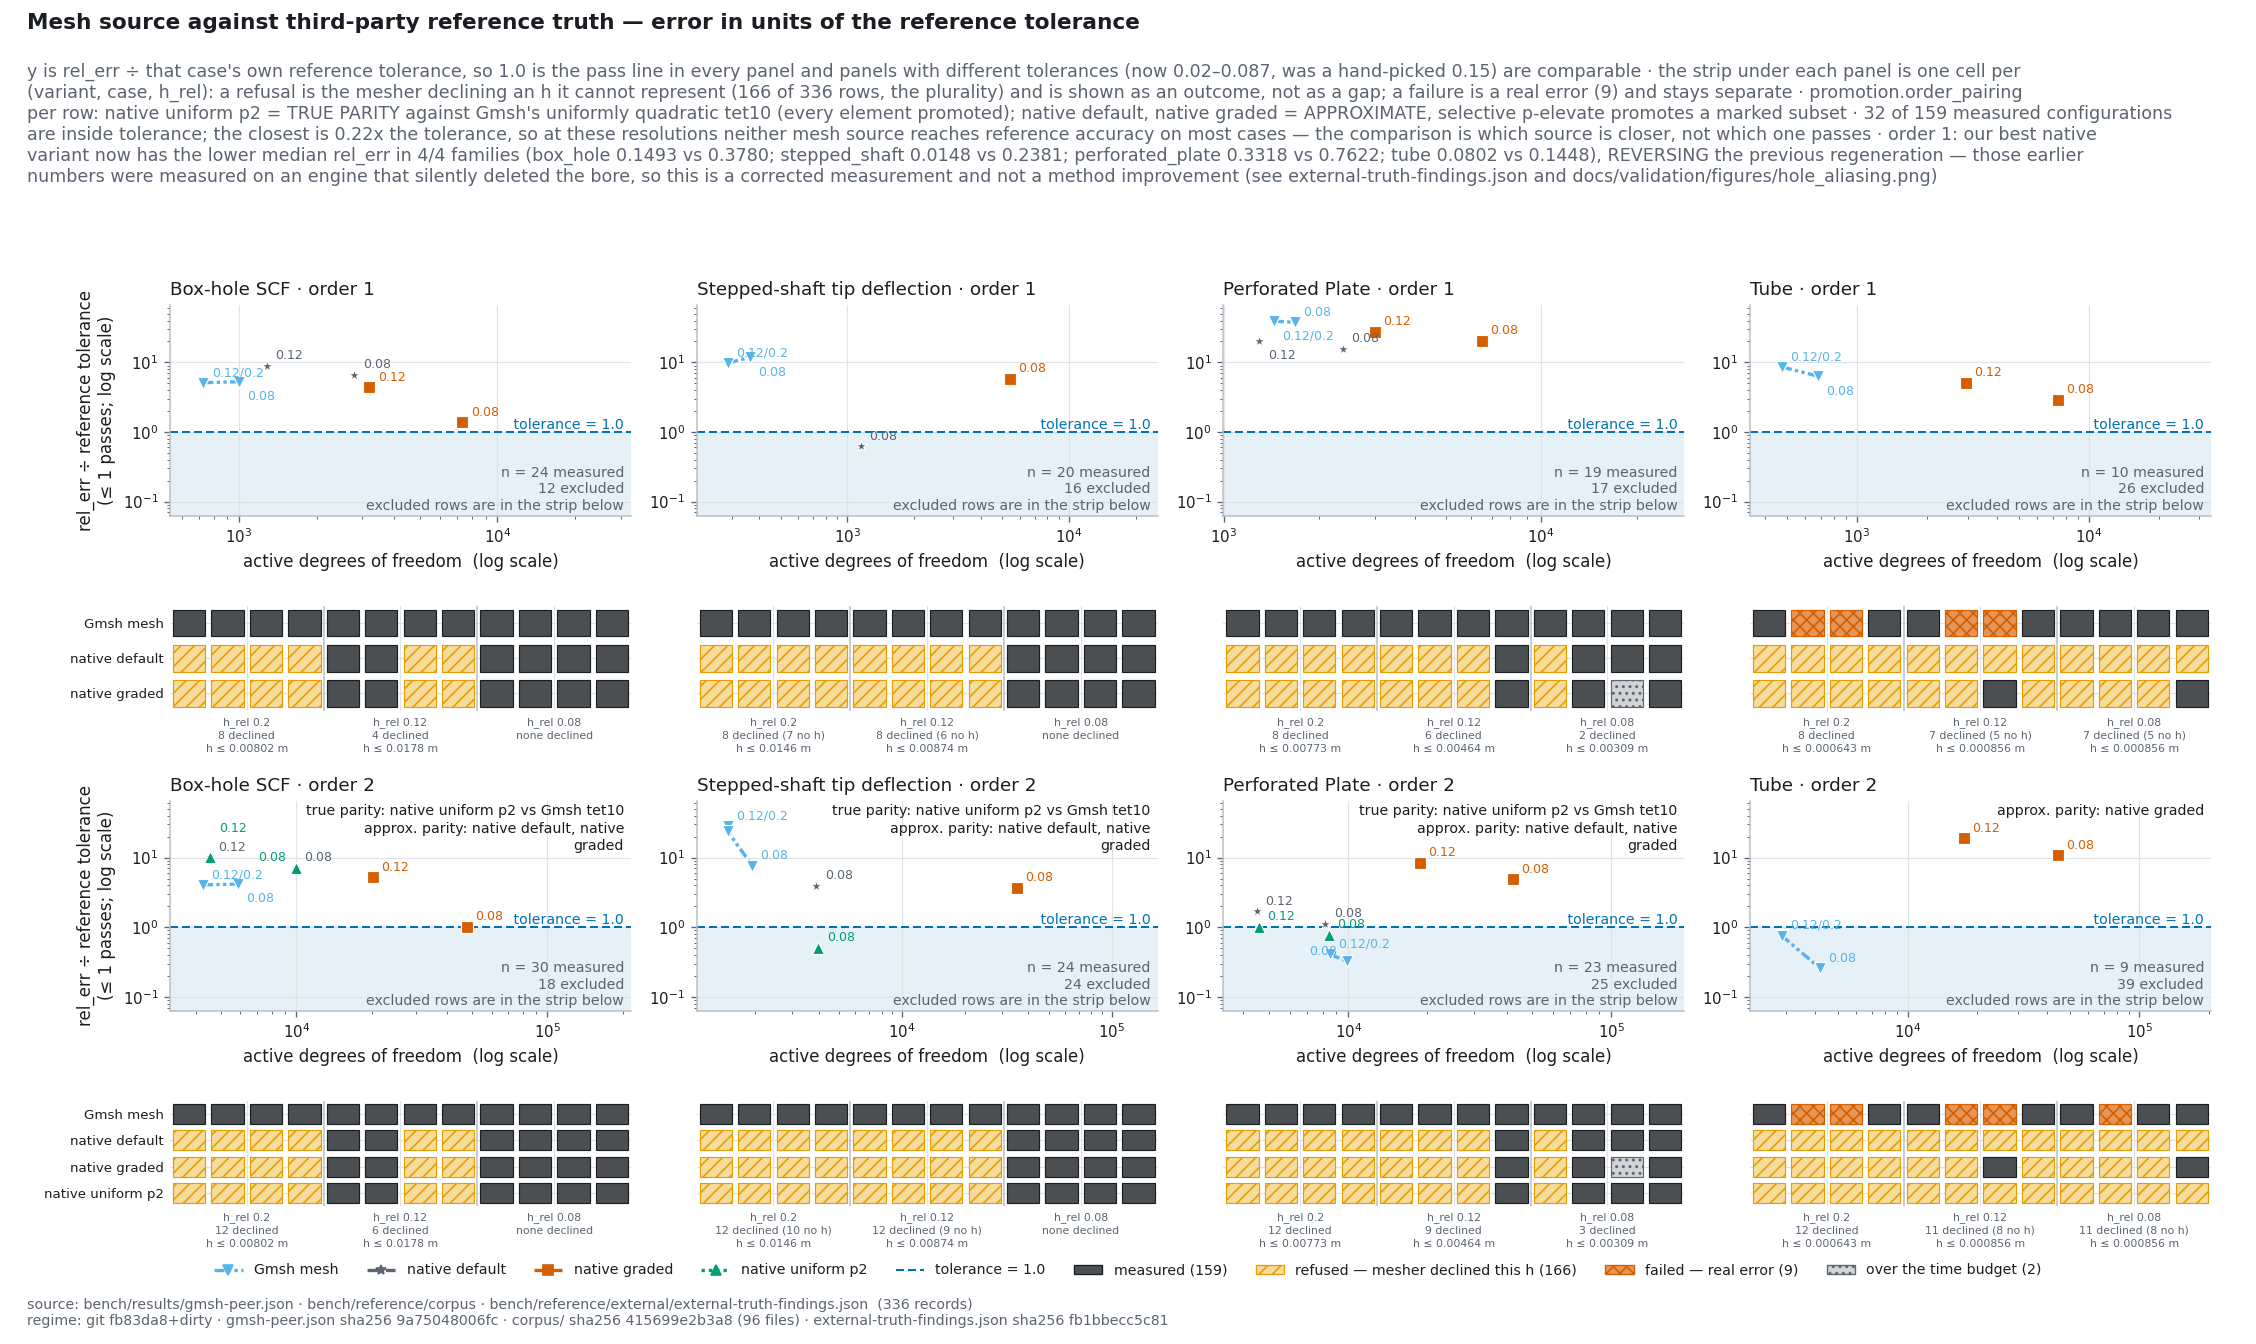
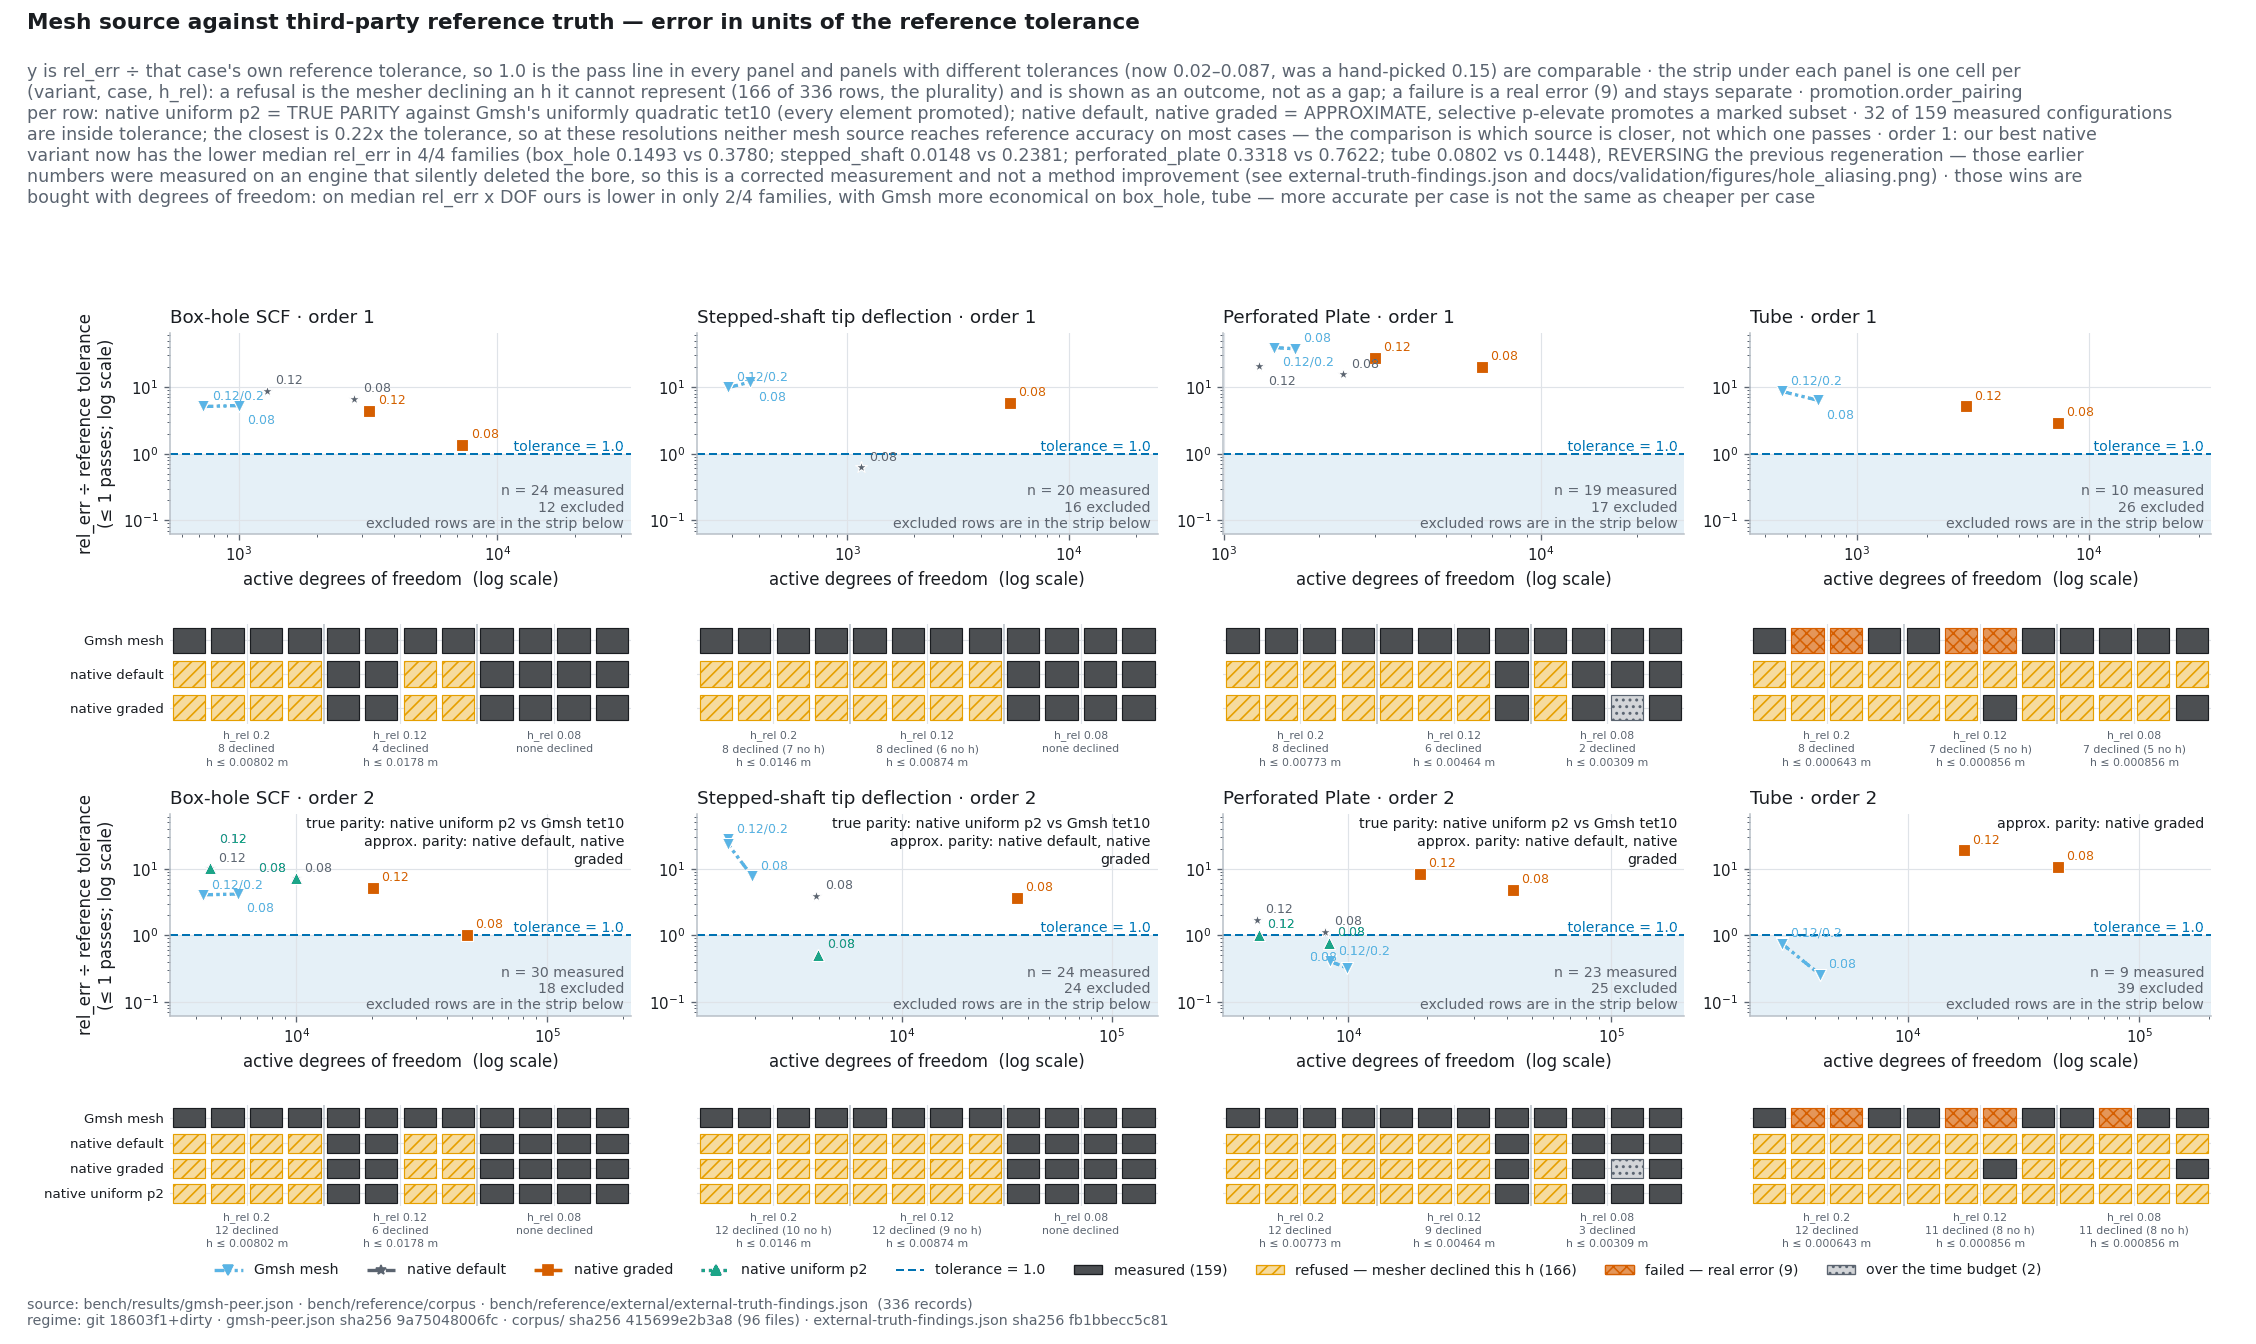
docs: charge the peer comparison for degrees of freedom, on the figure
external_comparison.png stated the order-1 accuracy result -- our best native
variant has the lower median rel_err in 4/4 families -- with its cause, but not
with its cost. The README peer section, corrected in 18603f1, does state the
cost: those wins are bought with 4-10x the degrees of freedom, and on median
rel_err x DOF the ranking splits 2-2.

A figure that is less honest than the prose beside it is the defect this sweep
existed to remove, so the figure now carries both bases, computed from the same
rows it plots and never typed in:

  box_hole          ours 849 vs Gmsh  278  -- Gmsh lower
  stepped_shaft     ours  17 vs Gmsh   69  -- ours lower
  perforated_plate  ours 678 vs Gmsh 1171  -- ours lower
  tube              ours 363 vs Gmsh   84  -- Gmsh lower

The subtitle ends "more accurate per case is not the same as cheaper per case".
Every number reproduces the README's independently: median DOF box-hole 738 vs
6,242, tube 540 vs 5,142.

diff --git a/scripts/advisor/report.py b/scripts/advisor/report.py
@@ -1392,6 +1392,42 @@ def _order_tally(measured: list[dict[str, Any]], families: list[str],
     return out
 
 
+def _cost_tally(measured: list[dict[str, Any]], families: list[str],
+                order: int) -> list[tuple[str, float, float]]:
+    """(family, best native median rel_err x DOF, Gmsh median) per family.
+
+    The accuracy tally answers "whose mesh is more accurate". It does not
+    answer "at what cost", and on this matrix the two answers differ: the
+    native wins are bought with 4-10x the degrees of freedom. Charging for
+    them is one multiplication, so there is no excuse for showing only the
+    flattering basis.
+    """
+    out = []
+    for family in families:
+        panel = [row for row in measured
+                 if row["family"] == family and row["order"] == order
+                 and row.get("dofs")]
+        peer = [row["error"] * row["dofs"] for row in panel
+                if row["solver"] == "gmsh-mesh+polymesh-solver"]
+        native = [row["error"] * row["dofs"] for row in panel
+                  if row["solver"] != "gmsh-mesh+polymesh-solver"]
+        best: float | None = None
+        for solver in EXTERNAL_SOURCES:
+            if solver == "gmsh-mesh+polymesh-solver":
+                continue
+            costs = [row["error"] * row["dofs"] for row in panel
+                     if row["solver"] == solver]
+            if not costs:
+                continue
+            median = float(np.median(costs))
+            if best is None or median < best:
+                best = median
+        if not peer or best is None or not native:
+            continue
+        out.append((family, best, float(np.median(peer))))
+    return out
+
+
 def external_comparison(result_path: Path, out_dir: Path) -> bool:
     payload = load_json(result_path)
     if not isinstance(payload, list):
@@ -1442,6 +1478,25 @@ def external_comparison(result_path: Path, out_dir: Path) -> bool:
     order1 = orders[0]
     reversal = ("; ".join(f"{family} {native:.4f} vs {peer:.4f}"
                           for family, _, native, peer in tallies[order1]))
+
+    cost = _cost_tally(measured, families, order1)
+    cost_wins = sum(1 for _, native, peer in cost if native < peer)
+    for family, native, peer in cost:
+        print(f"  order {order1} {family} rel_err x DOF: ours "
+              f"{native:.0f} vs Gmsh {peer:.0f} — "
+              + ("ours lower" if native < peer else "Gmsh lower"))
+    print(f"  order {order1} cost tally: ours lower in {cost_wins}/"
+          f"{len(cost)} families on rel_err x DOF")
+    cost_sentence = ""
+    if cost:
+        losers = ", ".join(family for family, native, peer in cost
+                           if native >= peer)
+        cost_sentence = (
+            " \u00b7 those wins are bought with degrees of freedom: on median "
+            f"rel_err x DOF ours is lower in only {cost_wins}/{len(cost)} "
+            "families"
+            + (f", with Gmsh more economical on {losers}" if losers else "")
+            + " \u2014 more accurate per case is not the same as cheaper per case")
     findings = ROOT / "bench" / "reference" / "external" / \
         "external-truth-findings.json"
     # the parity vocabulary is read off promotion.order_pairing, so no caveat
@@ -1497,7 +1552,8 @@ def external_comparison(result_path: Path, out_dir: Path) -> bool:
         "measured on an engine that silently deleted the bore, so this is a "
         "corrected measurement and not a method improvement (see "
         "external-truth-findings.json and "
-        "docs/validation/figures/hole_aliasing.png)")
+        "docs/validation/figures/hole_aliasing.png)"
+        + cost_sentence)
 
     # two axes rows per element order: the convergence panel and its outcome
     # strip. Width grows with the family count; the height is generous because
